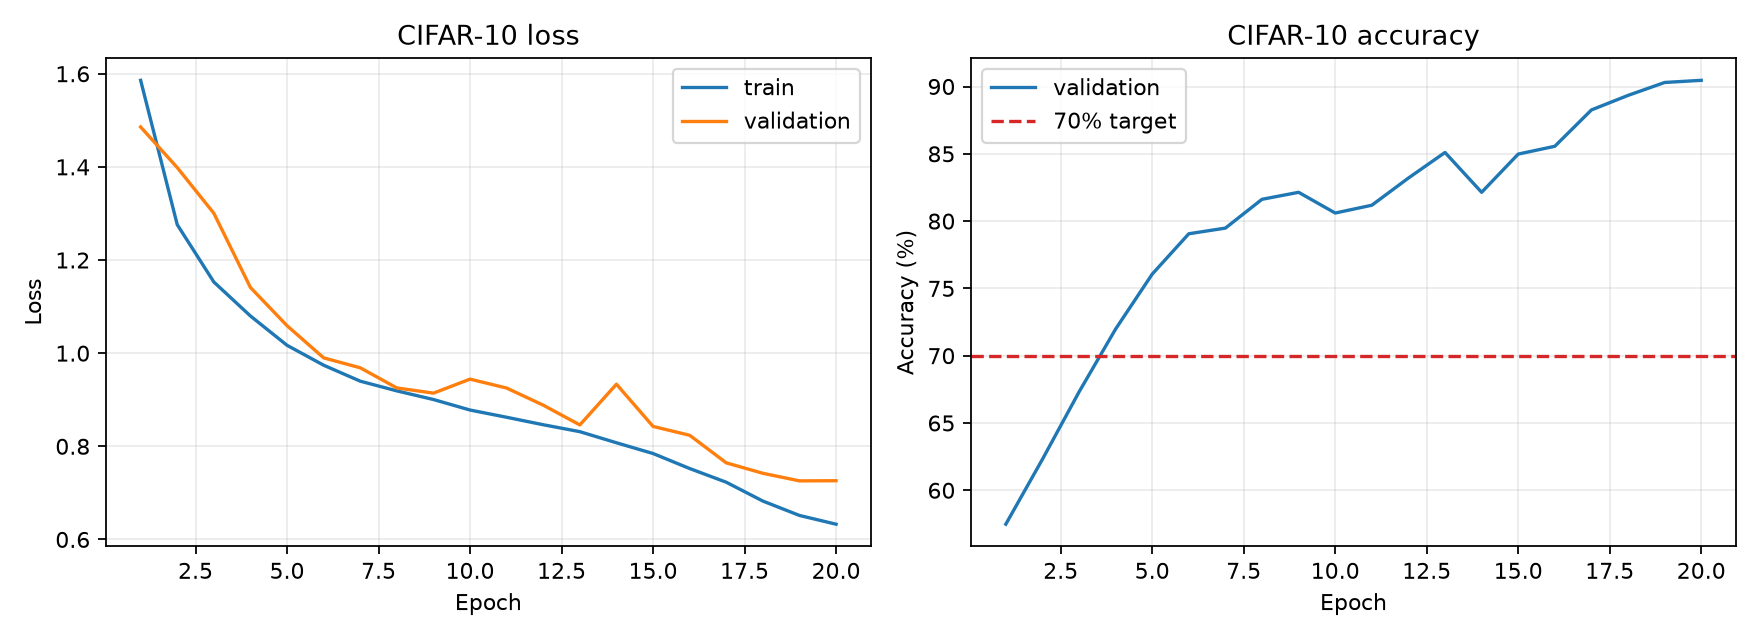
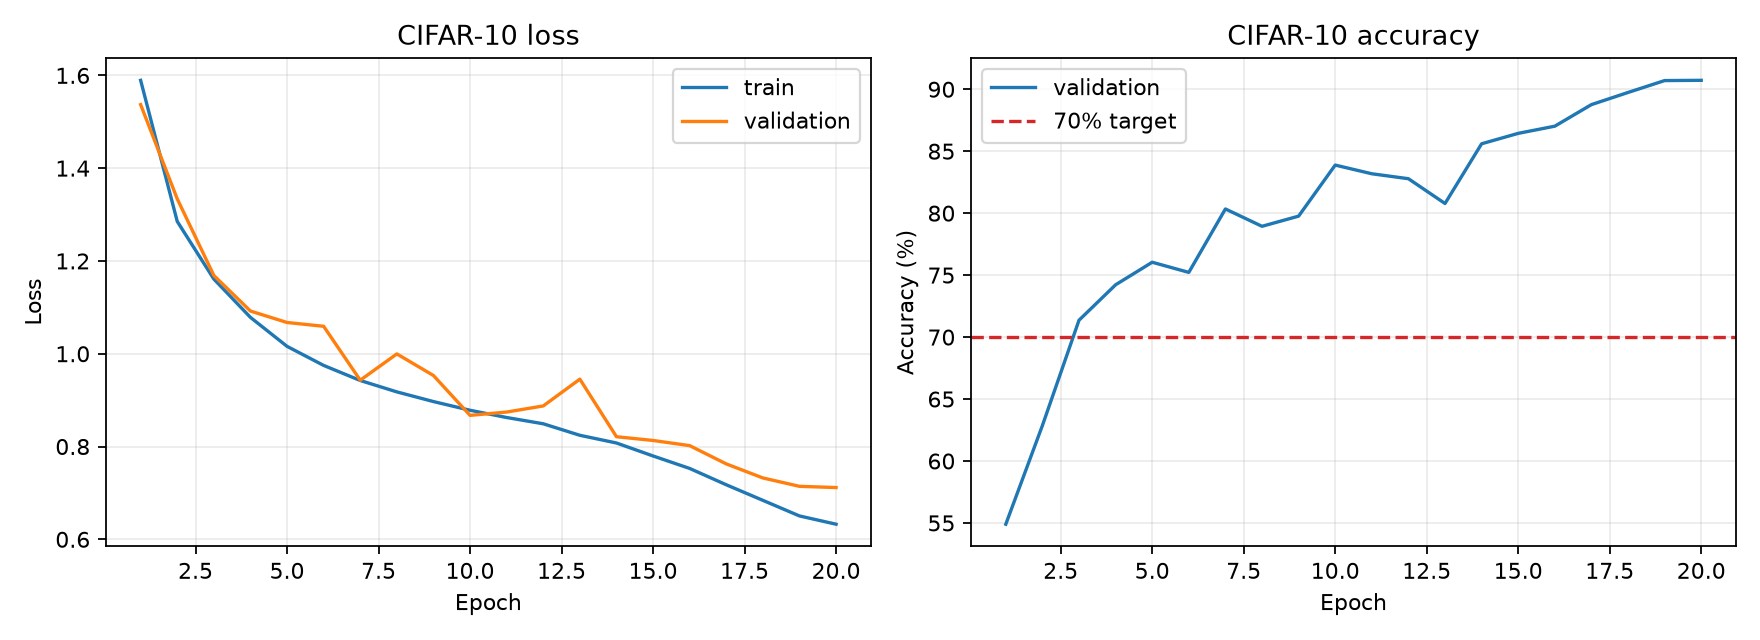
chore: use shared conda pytorch environment

diff --git a/scripts/check_environment.py b/scripts/check_environment.py
@@ -1,0 +1,79 @@
+#!/usr/bin/env python3
+"""Validate that the active interpreter is the shared conda PyTorch environment."""
+
+from __future__ import annotations
+
+import importlib.metadata
+import os
+import sys
+from pathlib import Path
+
+EXPECTED_ENV = os.environ.get("CONDA_ENV", "pytorch")
+
+
+def main() -> None:
+    failures: list[str] = []
+    prefix = Path(sys.prefix)
+    environment_name = os.environ.get("CONDA_DEFAULT_ENV") or prefix.name
+    if environment_name != EXPECTED_ENV:
+        failures.append(
+            f"active conda environment is '{environment_name}', expected '{EXPECTED_ENV}'"
+        )
+
+    print(f"Python: {sys.version.split()[0]}")
+    print(f"Interpreter: {sys.executable}")
+    print(f"Environment: {environment_name} ({prefix})")
+
+    modules = ("torch", "torchvision", "numpy", "cv2", "matplotlib", "pytest")
+    imported: dict[str, object] = {}
+    for module_name in modules:
+        try:
+            imported[module_name] = __import__(module_name)
+        except ImportError as error:
+            failures.append(f"missing module '{module_name}': {error}")
+
+    if "torch" in imported:
+        torch = imported["torch"]
+        cuda_available = bool(torch.cuda.is_available())
+        print(f"PyTorch: {torch.__version__}")
+        print(f"CUDA available: {cuda_available}")
+        if cuda_available:
+            print(f"CUDA runtime: {torch.version.cuda}")
+            print(f"GPU: {torch.cuda.get_device_name(0)}")
+
+    if "torchvision" in imported:
+        print(f"torchvision: {imported['torchvision'].__version__}")
+    if "numpy" in imported:
+        print(f"NumPy: {imported['numpy'].__version__}")
+    if "cv2" in imported:
+        version = imported["cv2"].__version__
+        print(f"OpenCV: {version}")
+        if not version.startswith("4."):
+            failures.append(f"OpenCV 4.x is required, found {version}")
+    if "matplotlib" in imported:
+        print(f"Matplotlib: {imported['matplotlib'].__version__}")
+
+    try:
+        print(f"pytest: {importlib.metadata.version('pytest')}")
+        print(f"project package: {importlib.metadata.version('embodied-ai-stage0')}")
+    except importlib.metadata.PackageNotFoundError as error:
+        failures.append(f"missing package metadata: {error}")
+
+    if failures:
+        print("\nEnvironment check failed:", file=sys.stderr)
+        for failure in failures:
+            print(f"  - {failure}", file=sys.stderr)
+        print(
+            "\nActivate the shared environment with:\n"
+            f"  conda activate {EXPECTED_ENV}\n"
+            "Then run:\n"
+            "  python -m pip install -e . --no-deps",
+            file=sys.stderr,
+        )
+        raise SystemExit(1)
+
+    print("\nEnvironment check passed.")
+
+
+if __name__ == "__main__":
+    main()

diff --git a/python/cifar10_classifier/train.py b/python/cifar10_classifier/train.py
@@ -123,7 +123,7 @@ def evaluate(
 
 def save_history(history: list[dict[str, float]], output_dir: Path) -> None:
     with (output_dir / "history.csv").open("w", newline="", encoding="utf-8") as file:
-        writer = csv.DictWriter(file, fieldnames=list(history[0]))
+        writer = csv.DictWriter(file, fieldnames=list(history[0]), lineterminator="\n")
         writer.writeheader()
         writer.writerows(history)
 

diff --git a/README.md b/README.md
@@ -12,36 +12,35 @@
 | CMake 多文件 C++ 工程 | `cpp/CMakeLists.txt` | `make cpp` |
 | NumPy 3D 旋转矩阵 <-> 四元数 | `python/rotation_conversions/` | `make rotation` |
 
-## 已验证环境
+## 项目环境
 
-当前仓库已在下面的机器配置上完成测试和训练：
+本项目不再创建 `.venv`，统一引用已经创建好的 conda 环境 `pytorch`：
 
-- Ubuntu 26.04.1 LTS（路线图最低要求是 Ubuntu 22.04 LTS）
-- Python 3.14.6（代码要求 Python 3.10+）
-- PyTorch 2.14.0 CPU 版
-- torchvision 0.29.0 CPU 版
-- NumPy 2.5.3
-- OpenCV 4.14.0
-- CMake 4.2.3（代码最低要求 3.22）
-- GCC 15.2.0，C++20
-
-代码的 `--device auto` 会在存在 CUDA 时自动使用 GPU；本次验收使用 CPU，结果仍超过 70%。
-
-## 快速开始
-
-```bash
-git clone <你的仓库地址>
-cd <仓库目录>
-bash scripts/bootstrap.sh
-source .venv/bin/activate
+```text
+环境名称: pytorch
+解释器:   ${HOME}/anaconda3/envs/pytorch/bin/python
 ```
 
-如果只需要 CPU 版 PyTorch，可使用：
+VS Code 已通过 `.vscode/settings.json` 选择该解释器；`Makefile` 和检查脚本默认使用 `conda run -n pytorch`。如果以后修改了 conda 环境名，可在命令前覆盖：
 
 ```bash
-python3 -m venv .venv
-.venv/bin/python -m pip install -r requirements-cpu.txt
-.venv/bin/python -m pip install -e . --no-deps
+CONDA_ENV=新的环境名 make check
+```
+
+`requirements.txt` 和 `requirements-cpu.txt` 只保留给 GitHub Actions 等隔离环境使用，不会在本地项目中重新安装一份 PyTorch。
+
+### 直接使用环境
+
+```bash
+conda activate pytorch
+python scripts/check_environment.py
+```
+
+首次切换项目环境时，只需把本项目以 editable 模式注册到现有 conda 环境，不会重新安装 PyTorch：
+
+```bash
+make setup
+# 等价于 conda run -n pytorch python -m pip install -e . --no-deps
 ```
 
 运行全部检查：
@@ -49,6 +48,20 @@ python3 -m venv .venv
 ```bash
 make check
 ```
+
+## 已验证环境
+
+- Ubuntu 26.04.1 LTS（路线图最低要求是 Ubuntu 22.04 LTS）
+- conda 环境 `pytorch`，Python 3.12.14
+- PyTorch 2.14.0 + CUDA 13.0
+- torchvision 0.29.0 + CUDA 13.0
+- NumPy 2.5.3
+- OpenCV 4.14.0
+- Matplotlib 3.11.2
+- CMake 4.2.3（代码最低要求 3.22）
+- GCC 15.2.0，C++20
+
+代码的 `--device auto` 会优先使用 CUDA，当前 conda 环境已检测到 RTX 4060 Laptop GPU。
 
 ## 1. PyTorch CIFAR-10
 
@@ -84,11 +97,12 @@ python -m cifar10_classifier.train --data-dir data --output-dir artifacts/cifar1
 | 指标 | 本次结果 |
 | --- | ---: |
 | 官方测试集准确率 | **90.12%** |
-| 最佳验证集准确率 | 90.46% |
+| 最佳验证集准确率 | 90.72% |
 | 训练轮数 | 20 |
 | 模型参数量 | 1,941,546 |
-| 设备 | CPU（PyTorch 2.14.0+cpu） |
-| 训练耗时 | 750.4 秒 |
+| 设备 | CUDA（RTX 4060 Laptop GPU） |
+| 环境 | conda `pytorch`，PyTorch 2.14.0+cu130 |
+| 训练耗时 | 68.2 秒 |
 | 验收结果 | **通过（> 70%）** |
 <!-- CIFAR_METRIC_END -->
 

diff --git a/docs/GITHUB_PUSH.md b/docs/GITHUB_PUSH.md
@@ -1,33 +1,38 @@
-# 推送到 GitHub
+# 同步到 GitHub
 
-## 方式 A：使用 VS Code（推荐）
+当前仓库已经配置远程地址：
 
-1. 在 VS Code 打开本目录。
-2. 打开 Source Control，点击 `Publish Branch`。
-3. 如果已经登录 GitHub，选择账号、仓库名和 Public/Private。
-4. 首次发布后即可按需提交并点击 `Sync Changes`。
-
-## 方式 B：先手动创建空仓库，再使用命令
-
-在 GitHub 网页创建一个**不要初始化 README**的空仓库，然后执行：
-
-```bash
-git remote add origin git@github.com:<用户名>/<仓库名>.git
-git push -u origin main
+```text
+origin  https://github.com/muqiulin0-code/project.git
+branch  main
 ```
 
-如果使用 HTTPS：
+## 推荐流程：VS Code
+
+1. 在 VS Code 打开本项目。
+2. 确认 Source Control 右上角已经显示 GitHub 账号 `muqiulin0-code`。
+3. 检查 Changes，确认没有提交数据集、模型权重、`.venv/` 或临时锁文件。
+4. 填写提交信息并点击 **Commit**。
+5. 点击 **Sync Changes**，本地 `main` 就会同步到 `origin/main`。
+
+## 命令行流程
 
 ```bash
-git remote add origin https://github.com/<用户名>/<仓库名>.git
-git push -u origin main
+conda activate pytorch
+make check
+
+git status
+git add .
+git commit -m "chore: use shared conda pytorch environment"
+git push origin main
 ```
 
-VS Code 的 GitHub 登录可以用于 HTTPS 推送，但 Git 本身仍需要正确配置用户名和邮箱：
+Git 本身不会自动复用 VS Code 扩展里的登录状态；如果命令行推送要求认证，优先在 VS Code 的 Source Control 中点击 **Sync Changes**，或在第一次推送时完成 GitHub 登录。
 
-```bash
-git config --global user.name "你的名字"
-git config --global user.email "你的 GitHub 邮箱"
-```
+不要提交以下内容，本仓库的 `.gitignore` 已处理：
 
-注意：不要提交 `.venv/`、CIFAR 数据集或大体积模型权重；本仓库的 `.gitignore` 已处理这些文件。
+- `.venv/`
+- `data/` 和 CIFAR-10 数据集
+- `models/`
+- `artifacts/cifar10/` 中的模型权重
+- `.vscode/` 中的本地数据库和缓存

diff --git a/docs/ACCEPTANCE.md b/docs/ACCEPTANCE.md
@@ -6,7 +6,7 @@
 
 完成本仓库后，应能独立回答和操作以下内容：
 
-- 使用 Python 虚拟环境隔离项目依赖，并知道 `PYTHONPATH`、`pip`、`venv` 的作用。
+- 使用 conda 环境统一管理 Python、PyTorch 和 OpenCV 依赖，并理解解释器、`PYTHONPATH`、`pip`、`conda run` 的作用。
 - 使用 NumPy 表示矩阵、理解广播和矩阵乘法，并实现旋转矩阵与四元数之间的数学转换。
 - 使用 OpenCV 读取摄像头/视频、转换颜色空间、调用 Haar 或 DNN 检测器、绘制结果。
 - 使用 PyTorch 构建 `Dataset`/`DataLoader`、搭建 CNN、完成训练/验证/测试、保存最佳权重和训练曲线。
